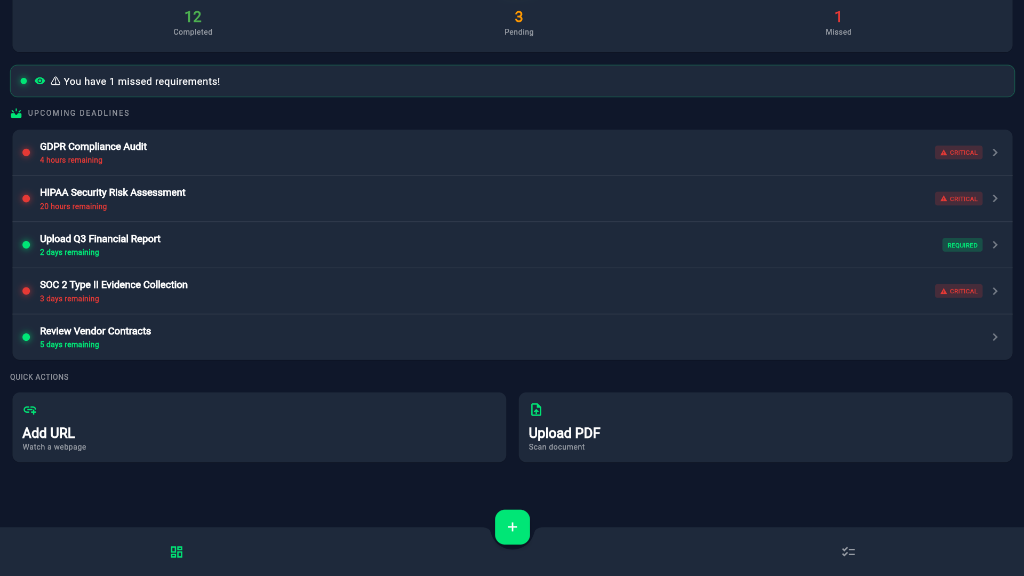
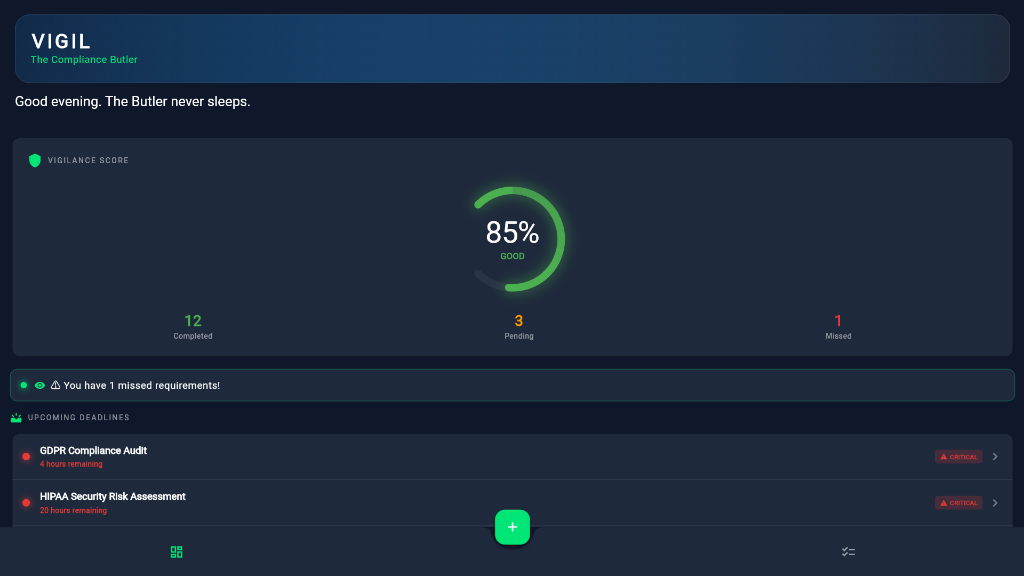
Docs: Final premium visuals and poster update

diff --git a/README.md b/README.md
@@ -2,15 +2,17 @@
 
 > *"Compliance isn't just about following rules. It's about survival."*
 
+![Vigil Poster](assets/vigil_poster.jpg)
+
 ## 📸 Visual Showcase
 
 | Dashboard & Vigilance Score | Active AI Analysis |
 |:---:|:---:|
-| ![Dashboard](assets/screenshots/dashboard_main.png) | ![AI Analysis](assets/screenshots/analyzing_document.png) |
+| ![Dashboard](assets/screenshots/dashboard_main.png) | ![Requirements](assets/screenshots/requirements_list.png) |
 
-| Guarded Requirements List | Document Ingestion |
-|:---:|:---:|
-| ![Requirements](assets/screenshots/requirements_list.png) | ![Add Source](assets/screenshots/add_source_input.png) |
+| Document Ingestion |
+|:---:|
+| ![Add Source](assets/screenshots/add_source_input.png) |
 
 ---
 
